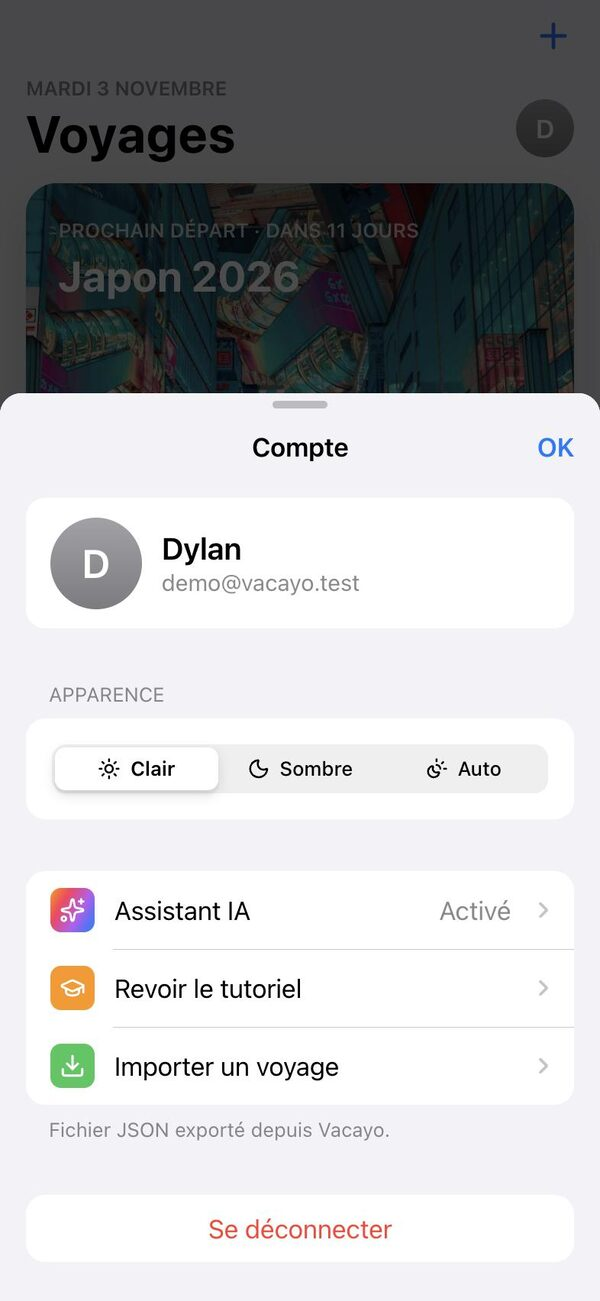
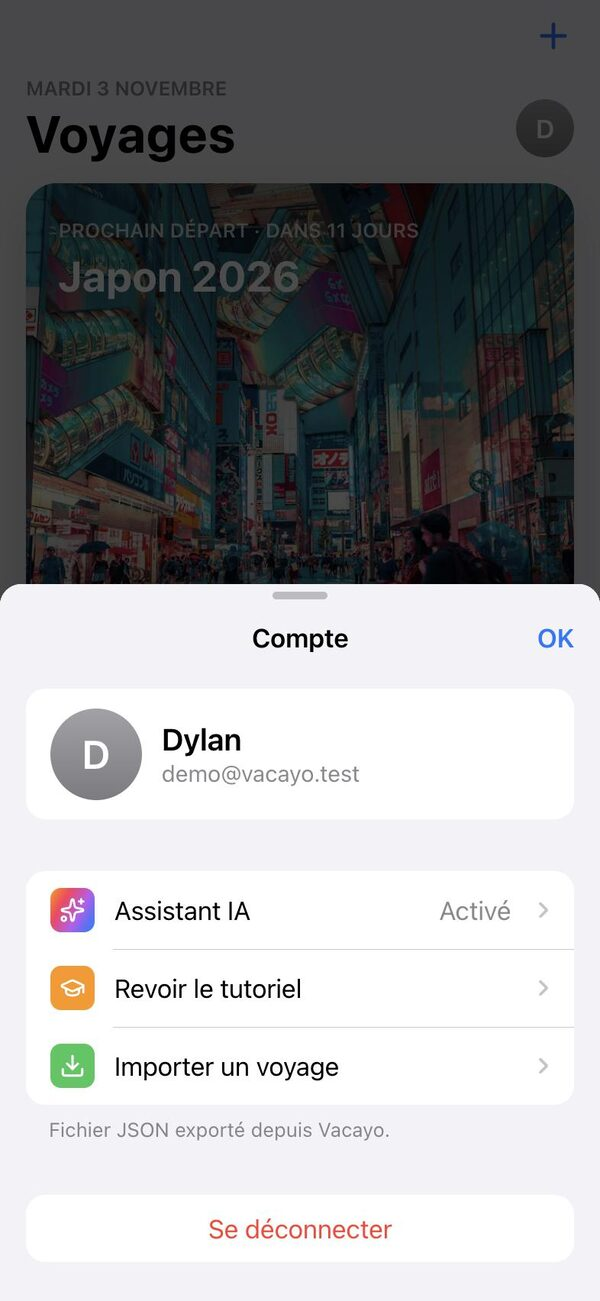
docs: README without dark mode, generation progress screenshot

Changed region(s): [[0.0, 0.2767, 1.0, 0.5227], [0.09, 0.5227, 0.6, 0.6149], [0.72, 0.5842, 0.84, 0.6149]]

diff --git a/README.md b/README.md
@@ -126,14 +126,6 @@ combien d’éléments s’y trouvent ; touche-la pour voir la liste et ouvrir u
   <img src="docs/screenshots/10-carte.jpg" width="260" alt="Carte du voyage">
 </p>
 
-### Clair ou sombre
-
-Vacayo suit le réglage de ton iPhone, ou le thème que tu choisis dans ton compte.
-
-<p align="center">
-  <img src="docs/screenshots/20-sombre.jpg" width="260" alt="Vacayo en mode sombre">
-</p>
-
 ## L’assistant IA
 
 L’assistant s’appuie sur **Claude Haiku**, un modèle d’intelligence artificielle
@@ -159,12 +151,16 @@ niveau d’hébergement, et ajoute une précision si tu veux (« arrivée le mat
 
 L’IA propose alors les **étapes** du voyage, les **hôtels** de chaque étape et un
 **programme jour par jour**, en tenant compte du jour d’arrivée et du jour de départ.
-Tu peux tout revoir, relancer une autre proposition, puis **Ajouter au voyage**.
+Pendant la préparation (environ une demi-minute pour une semaine), tu suis
+l’avancement étape par étape : villes choisies, hôtels, puis chaque jour du programme.
+Tu peux ensuite tout revoir, relancer une autre proposition, puis **Ajouter au voyage**.
 
 <p align="center">
-  <img src="docs/screenshots/12-generer.jpg" width="260" alt="Choix du rythme et des envies">
+  <img src="docs/screenshots/12-generer.jpg" width="220" alt="Choix du rythme et des envies">
   &nbsp;
-  <img src="docs/screenshots/13-generer-apercu.jpg" width="260" alt="Voyage proposé par l’IA">
+  <img src="docs/screenshots/22-generation.jpg" width="220" alt="Avancement de la préparation, étape par étape">
+  &nbsp;
+  <img src="docs/screenshots/13-generer-apercu.jpg" width="220" alt="Voyage proposé par l’IA">
 </p>
 
 ### Ajout magique
@@ -219,7 +215,6 @@ mardi ? », « Que faire s’il pleut à Kyoto ? ».
 
 Touche ton initiale en haut de la liste des voyages :
 
-- **Apparence** : clair, sombre ou automatique ;
 - **Assistant IA** : son état (activé, ou ta clé personnelle si besoin) ;
 - **Revoir le tutoriel** ;
 - **Importer un voyage** à partir d’un fichier exporté depuis Vacayo ;
@@ -283,9 +278,11 @@ Compte démo : voir l’en-tête de `scripts/seed-emulators.js` (n’existe que 
 ### Sur iPhone
 
 L’interface suit les codes d’iOS (typo système, grands titres, listes groupées,
-balayages, feuilles et alertes natives). Jetons de design `--vc-*` dans
-`src/style.css`, partagés avec Vant (`--van-*`), clair et sombre. Icône dans
-`public/apple-touch-icon.png`, manifeste dans `public/manifest.webmanifest`.
+balayages, feuilles et alertes natives), en mode clair uniquement. Jetons de design
+`--vc-*` dans `src/style.css`, partagés avec Vant (`--van-*`). Les feuilles plein
+écran font `--vc-sheet-h` de haut : elles s’arrêtent sous la barre d’état et la
+Dynamic Island, comme une app installée sur l’écran d’accueil (`viewport-fit=cover`).
+Icône dans `public/apple-touch-icon.png`, manifeste dans `public/manifest.webmanifest`.
 
 ### Tutoriel de première utilisation
 
@@ -363,7 +360,7 @@ Dans `docs/screenshots/`, prises sur les émulateurs (compte démo) dans une fen
 
 - `src/views/` : connexion, liste des voyages, détail d’un voyage
 - `src/components/` : cartes, fiches (bottom sheets), onglets (`tabs/`), IA (`ai/`), tutoriel
-- `src/stores/` : Pinia (auth, voyages, éléments, thème, IA)
+- `src/stores/` : Pinia (auth, voyages, éléments, IA)
 - `src/style.css` : jetons de design
 - `scripts/` : seed des émulateurs, remise à zéro du tutoriel
 - `ai-proxy/` : Vercel Function qui garde la clé Anthropic
